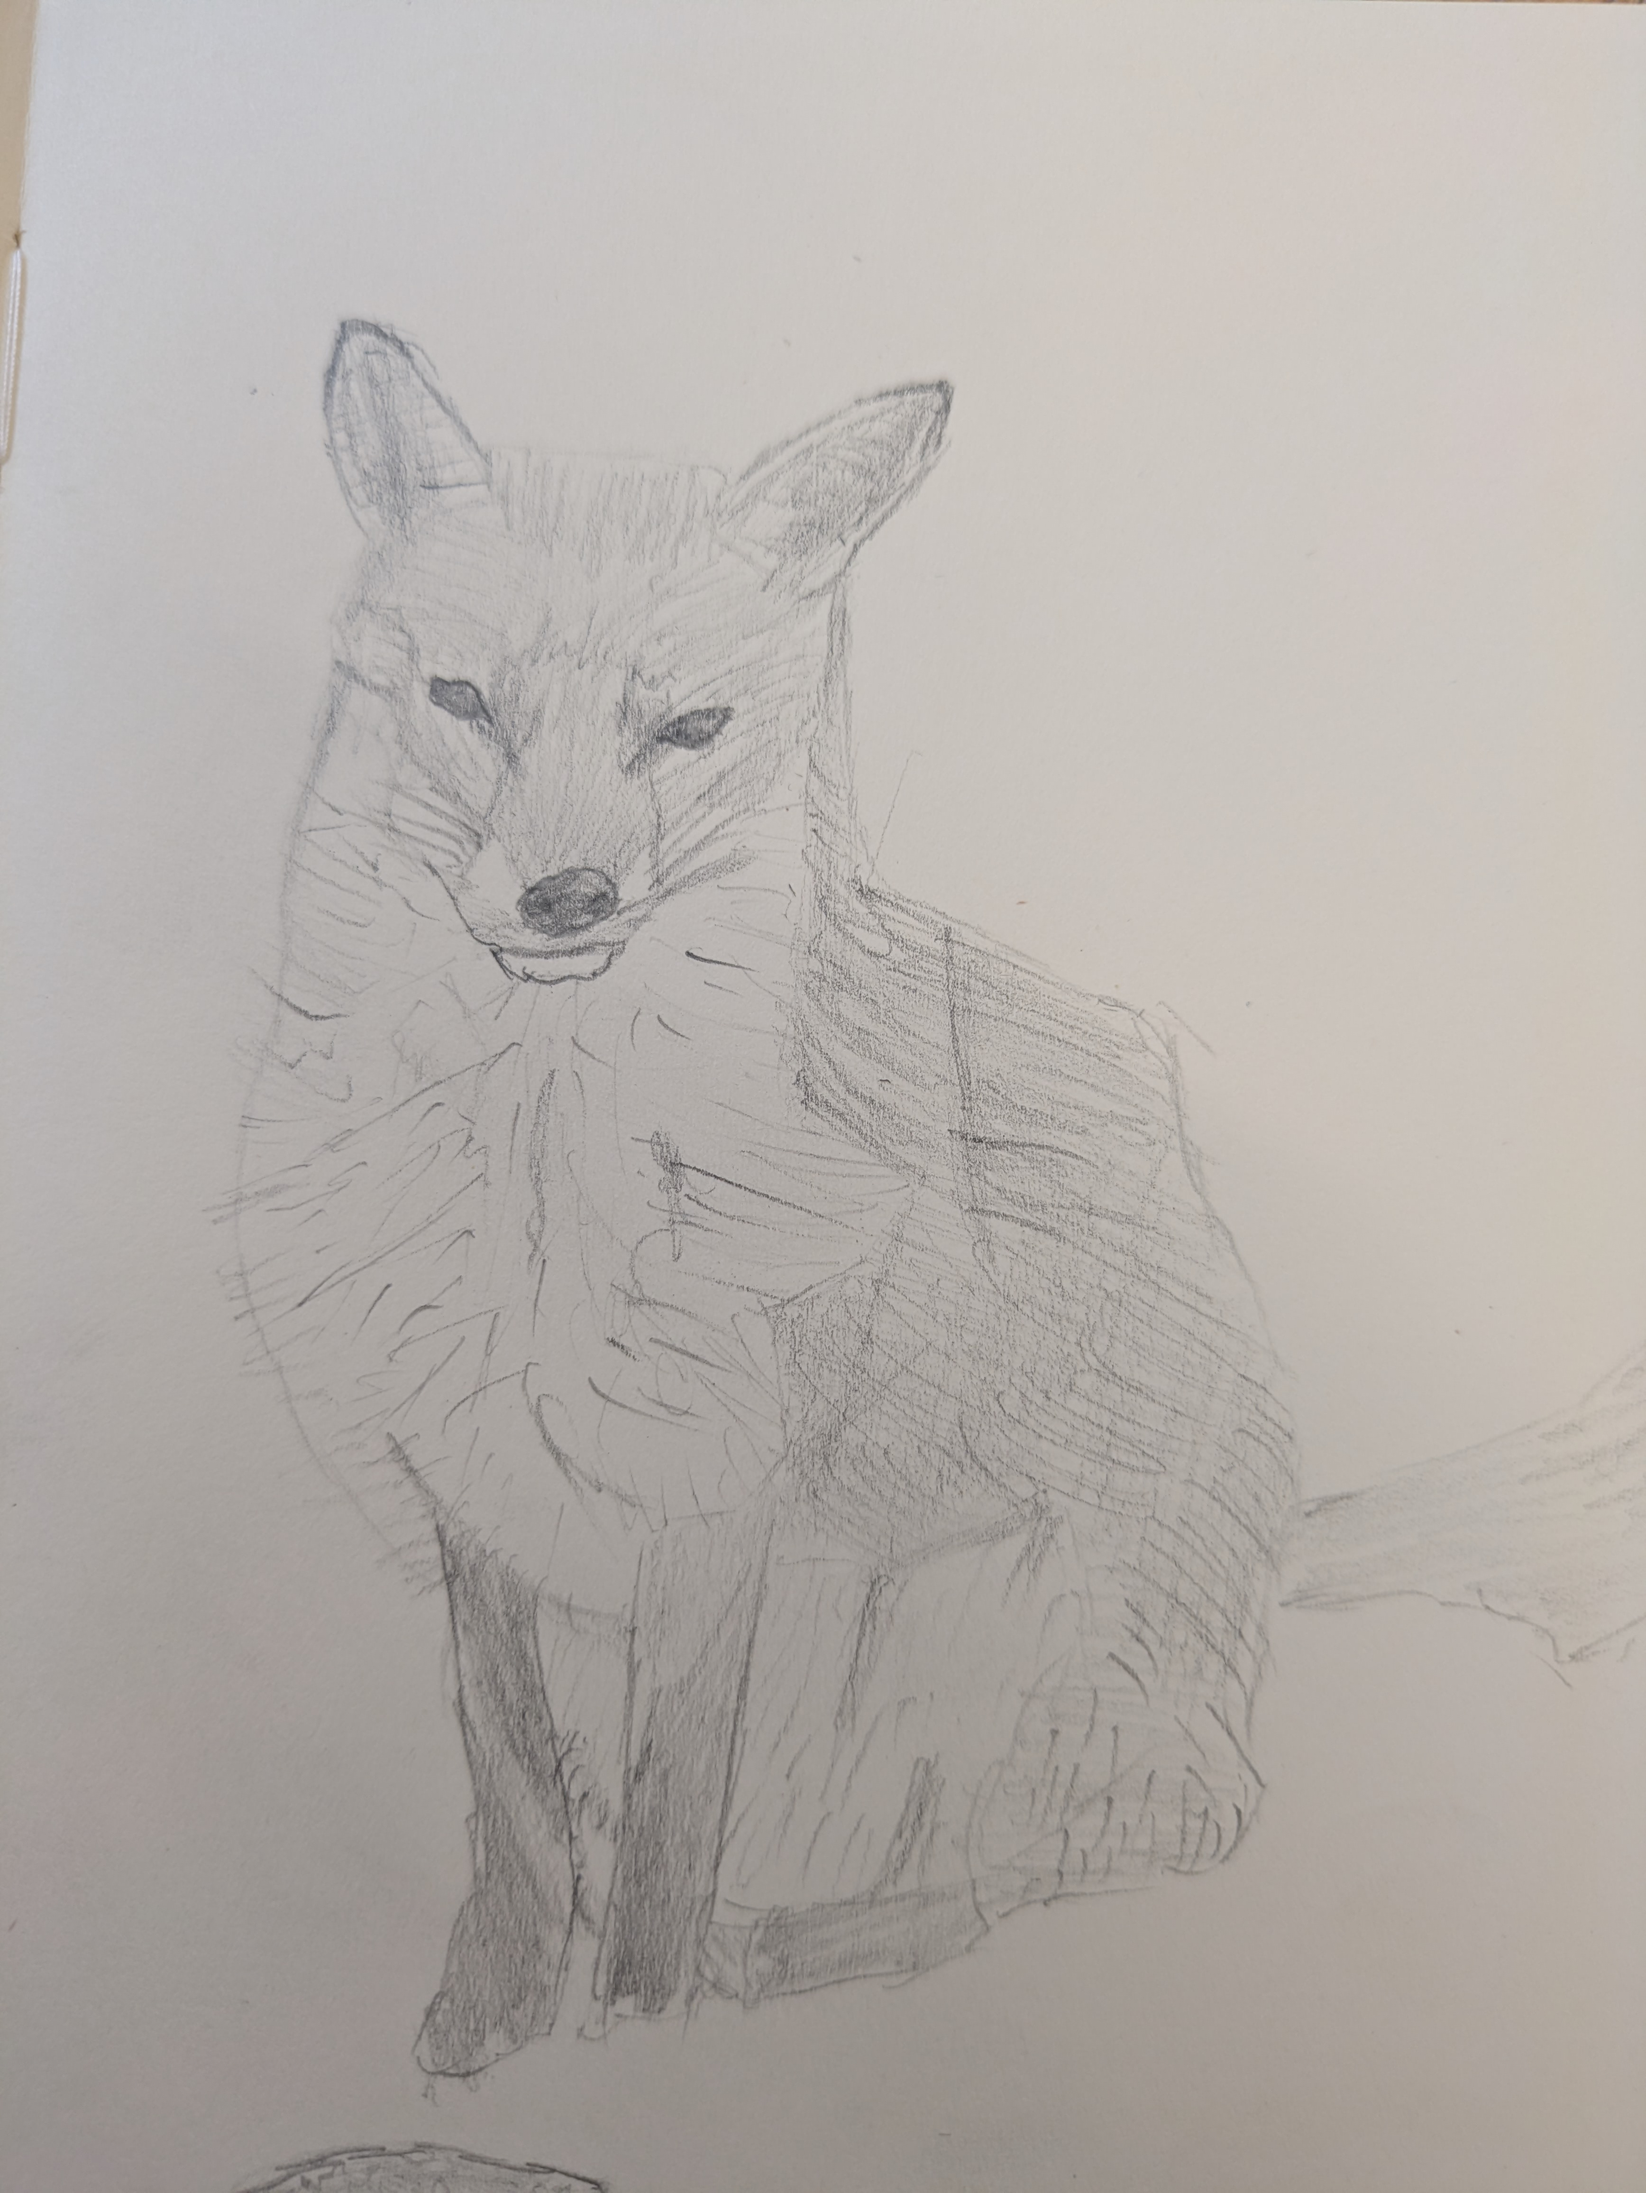
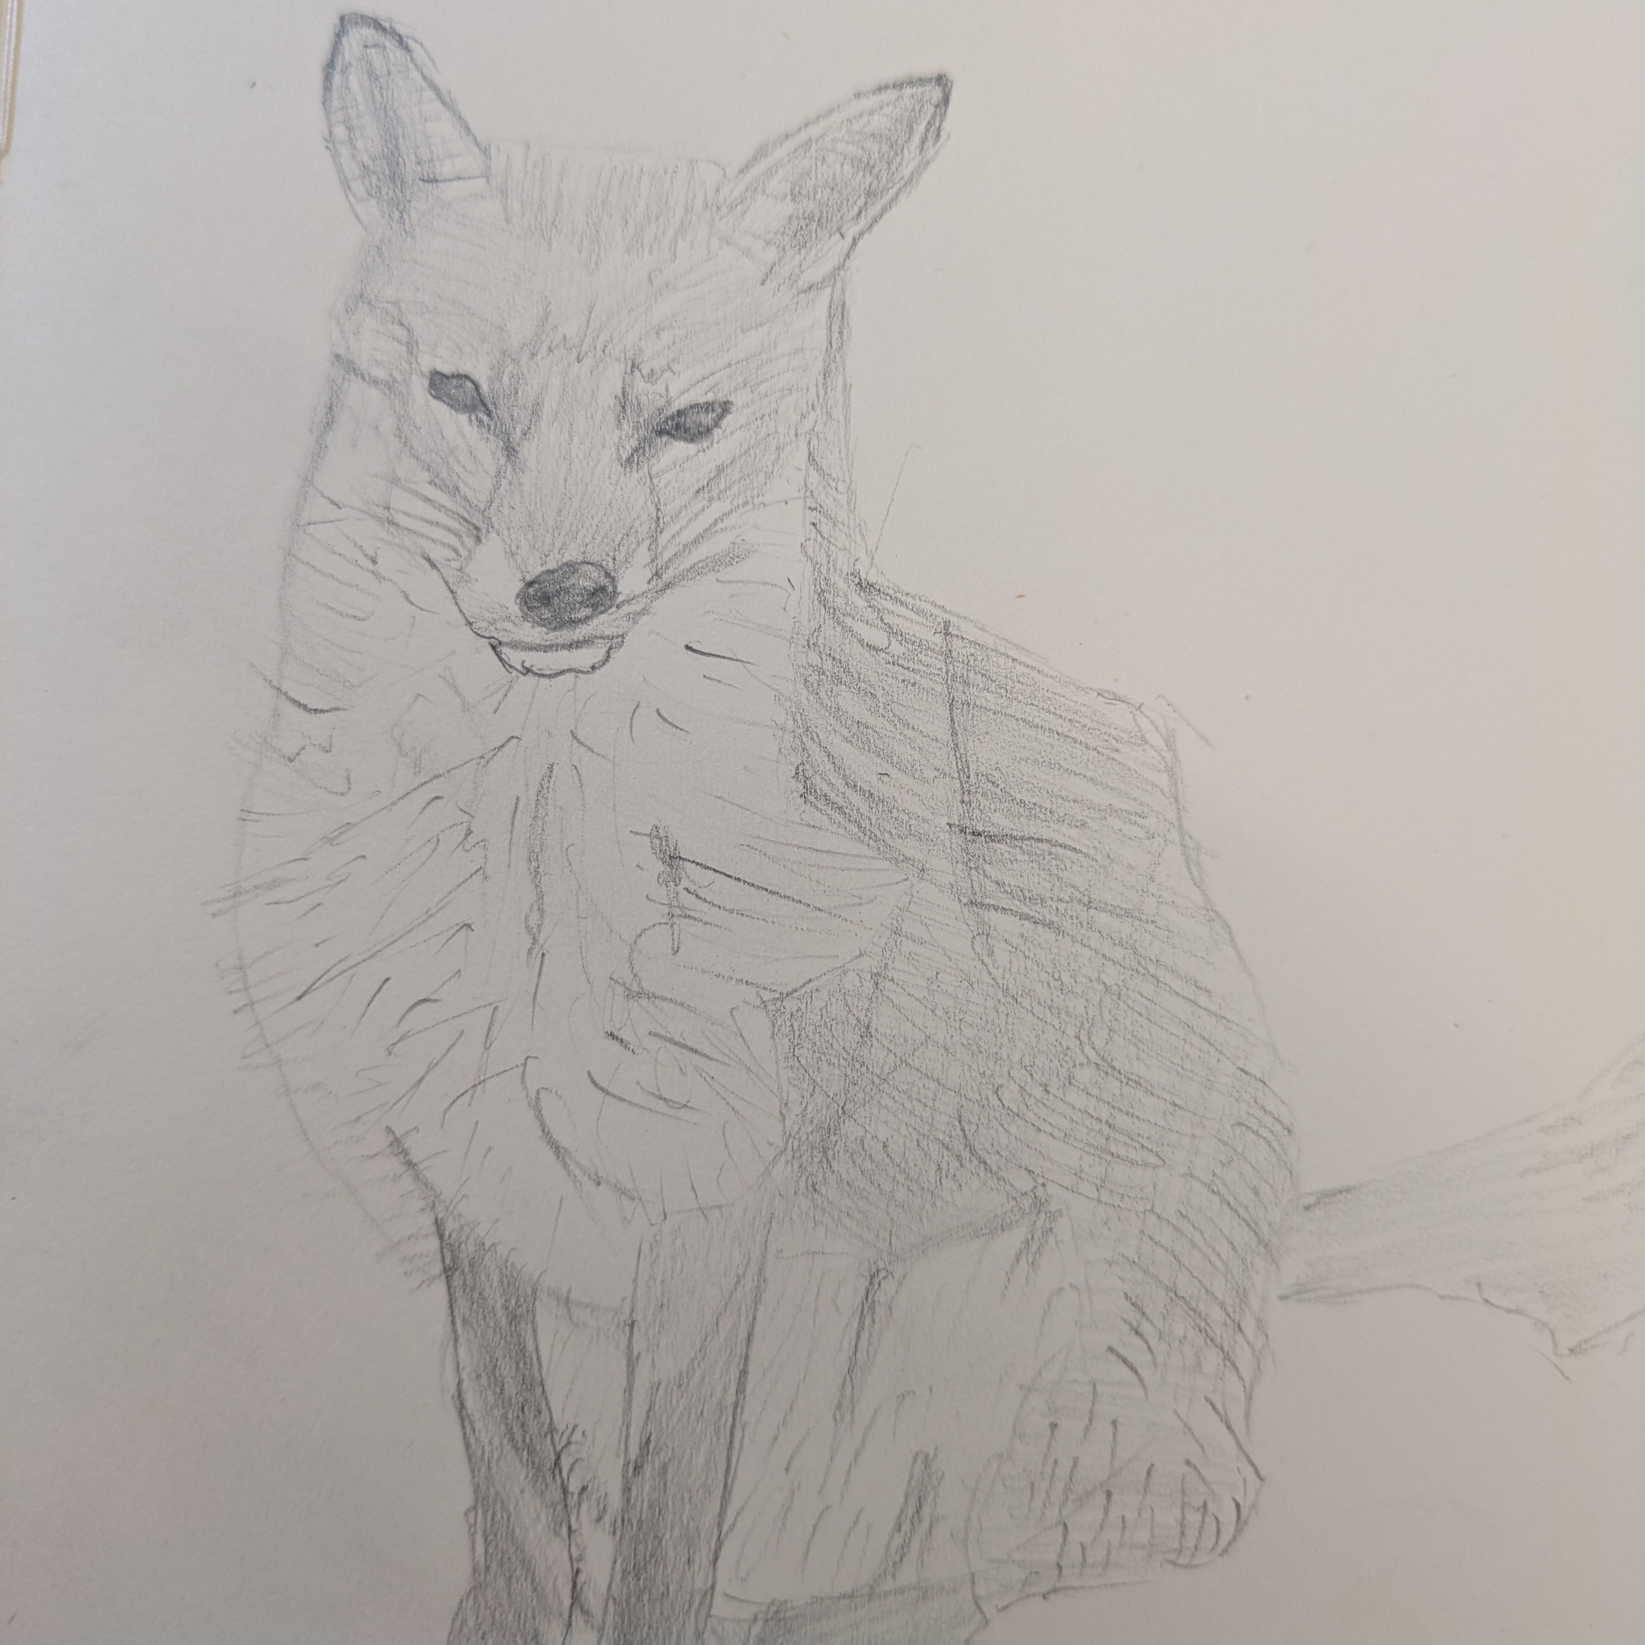
finish work on blog/my-cwm-config.html

diff --git a/blog/my-cwm-config.html b/blog/my-cwm-config.html
@@ -9,7 +9,7 @@
     <meta property="og:url" content="httpe://antonyfb.com/blog/my-cwm-config.html">
     <meta property="og:title" content="My CWM Config">
     <meta property="og:description" content="In which the author babbles semi-coherently about a window manager for Unix-like operating systems.">
-    <meta property="og:image" content="https://antonyfb.com/media/cwm-screenshot.jpg">
+    <meta property="og:image" content="https://antonyfb.com/media/grumpy-fox.jpg">
     <!--End of og tags--!>
     <link rel="stylesheet" href="../style.css" />
     <title>Blog Tags!</title>
@@ -39,16 +39,16 @@
     </nav>
 
     <main class="mainSection">
-<h1 id="my-cwm-config-on-openbsd">My CWM Config on OpenBSD</h1>
+<h1>My CWM Config on OpenBSD</h1>
 <p>In the latest entry in my series where I answer questions nobody asked, here I’ll explain my cwm configuration for my OpenBSD machine.</p>
 <p>For those unfamiliar, cwm is the Calm Window Manager. It’s part of the OpenBSD base distribution as one of the native window managers, along with an old version of fvwm and the venerable twm. It’s pretty simple but surprisingly powerful, a floating window manager with some basic manual tiling. It’s keyboard-centric, has an application launcher and highly configurable menus. It uses groups rather than workspaces which provides a lot of flexibility.</p>
 <p>My configuration isn’t particularly groundbreaking, but it’s comfy and suits me well. I can happily live in it indefinitely, though I do split my time between cwm and Xfce with occasional forays into other window managers or Wayland compositors. This has nothing to do with cwm limitations and everything to do with me being curious and craving novelty. It’s cwm that I return to, because it’s entirely unsurprising and very capable, and also because it’s part of OpenBSD’s base so I know I’m dealing with software that’s been refined and audited and refined again.</p>
 
-<img class="blogpic" src="../media/cwm-screenshot.jpg alt="A screenshot of my cwm setup." height="108" width="192">
-<p class="blogcap"><i>This is what I'm talking about.</i></p>
+<img class="blogpic" src="../media/cwm-screenshot.png" alt="A screenshot of my cwm setup." height="216" width="384">
+<p class="picCap"><i>This is my setup. Open image in a new tab for a proper look.</i></p>
 
 <p>Let’s start off with a brief explanation of my .xsession file, or the parts that are relevant to my cwm config at least. This file is used by xenodm, an xdm fork that ships with OpenBSD as part of their gently modified Xorg implementation, Xenocara.</p>
-<p>An expert from my .xsession:</p>
+<p>An excerpt from my .xsession:</p>
 <pre><code>xscreensaver --no-splash &amp;
 xset b off
 picom &amp;
@@ -57,7 +57,7 @@ feh --bg-fill /home/antony/Pictures/Wallpapers/obsd-gruvbox-simple.jpg &amp;
 emacs --daemon &amp;
 exec dbus-run-session cwm</code></pre>
 <p>There’s nothing too surprising here. I launch a screensaver program in the background, turn off angry terminal beeps, run a compositor (note: xcompmgr is in base, I use picom from ports solely because I was getting some odd artefacts with xcompmgr when moving windows. That was with OpenBSD version 7.7 though, so I think I’ll try it again with version 7.8 and see how I get on), then I set the wallpaper with feh, run a bar to give some basic info up at the top, launch an Emacs server, and then dbus runs the window manager itself.</p>
-<p>That bar, lemonbar-xft, is pretty nice. It’s basically just a box that shows the output of a shell script. There’s no systray or anything else, which may make it a little too start for many. But I love the flexibility and the simplicity. It’s a way to have a bit of information that I care about sitting at the top of my screen, and it does nothing else. No surprises, no weird stuff happening in the background that I don’t understand. That’s what I want from my computing environment.</p>
+<p>That bar, lemonbar-xft, is pretty nice. It’s basically just a box that shows the output of a shell script. There’s no systray or anything else, which may make it a little too stark for many. But I love the flexibility and the simplicity. It’s a way to have a bit of information that I care about sitting at the top of my screen, and it does nothing else. No surprises, no weird stuff happening in the background that I don’t understand. That’s what I want from my computing environment.</p>
 <p>Here’s the script that feeds my bar:</p>
 <pre><code>#!/bin/sh
 
@@ -129,7 +129,7 @@ color menufg  &quot;#ebdbb2&quot;
 color font    &quot;#ebdbb2&quot;
 color selfont &quot;#32302f&quot;
 gap 32 6 6 6</code></pre>
-<p>Aesthetic bits and bobs. I use my favourite monospace font, take some colours from the gruvbox terminal theme, and define gaps around the edge of the window manager where functions like window-vtile or window-snap-top won’t place clients, ensuring my bar is visible at the top and adding a bit of prettiness to maximised or tiled windows by showing a bit of the wallpaper and the calming grey of the border.</p>
+<p>Aesthetic bits and bobs. I use my favourite monospace font, take some colours from the gruvbox terminal theme, and define gaps around the edge of the window manager where functions like window-vtile or window-snap-up won’t place clients, ensuring my bar is visible at the top and adding a bit of prettiness to maximised or tiled windows by showing a bit of the wallpaper and the calming grey of the border.</p>
 <pre><code># groups
 bind-key M-1        group-only-1
 bind-key M-2        group-only-2
@@ -168,6 +168,8 @@ command bitwarden      &quot;ungoogled-chromium --profile-directory=Default --ap
 <p>I define some keybindings for launching applications here. I’ve got my chosen terminal emulator, a client for my Emacs server, and rofi for the odd occasion when I want to use that instead of cwm’s launcher and application menu. I’ve also added a binding for shutting my system down, which is <em>very</em> similar to the default bindings for exiting cwm and restarting it. This is new and I’m anticipating a few accidental shutdowns. Probably don’t do that on your own machine.</p>
 <p>After that, we have the application menu. It’s accessed with a right click on the root menu and contains whatever you put in it. I’ve got some of my most used applications, including some Chromium web apps.</p>
 <p>And that’s it, my cwm config. This window manager is incredibly easy to work with, it has plenty of power and visually it’s damn near a blank slate, ready and willing to be turned into whatever Dadaist nonsense the unixporn crowd desires.</p>
+<img class="blogpic" src="../media/grumpy-fox.jpg" alt="A sketch of a fox with a sour expression on its face" height="240" width="240">
+<p class="picCap"><i>Couldn't think of an appropriate doodle; have a grumpy fox.</i></p>
 <p>Thanks for reading.</p>
 <p>Toodles,</p>
 <p>–Antony F.</p>

diff --git a/blog/index.html b/blog/index.html
@@ -41,6 +41,12 @@
 	    <button class="blogTagInactive" id="btcult">Culture</button>
 	</div>
         <article class="conlink blogTech">
+            <a class="contitle" href="my-cwm-config.html">31/10/2025 My CWM Config on OpenBSD</a>
+            <p class="conblurb">
+		In which the author babbles semi-coherently about a window manager for Unix-like operating systems.
+            </p>
+        </article>
+        <article class="conlink blogTech">
             <a class="contitle" href="blog-tags.html">21/10/2025 Blog Tags!</a>
             <p class="conblurb">
                 In which the author presents his latest JavaScript fingerpainting in the hopes you'll stick it on the fridge.

diff --git a/index.html b/index.html
@@ -50,6 +50,12 @@
     <section class=blogPreview>
 	<h2>Recent Blog Entries</h2>
         <article class="conlink blogTech">
+            <a class="contitle" href="blog/my-cwm-config.html">31/10/2025 My CWM Config on OpenBSD</a>
+            <p class="conblurb">
+		In which the author babbles semi-coherently about a window manager for Unix-like operating systems.
+            </p>
+        </article>
+        <article class="conlink blogTech">
             <a class="contitle" href="blog/blog-tags.html">21/10/2025 Blog Tags!</a>
             <p class="conblurb">
                 In which the author presents his latest JavaScript fingerpainting in the hopes you'll stick it on the fridge.
